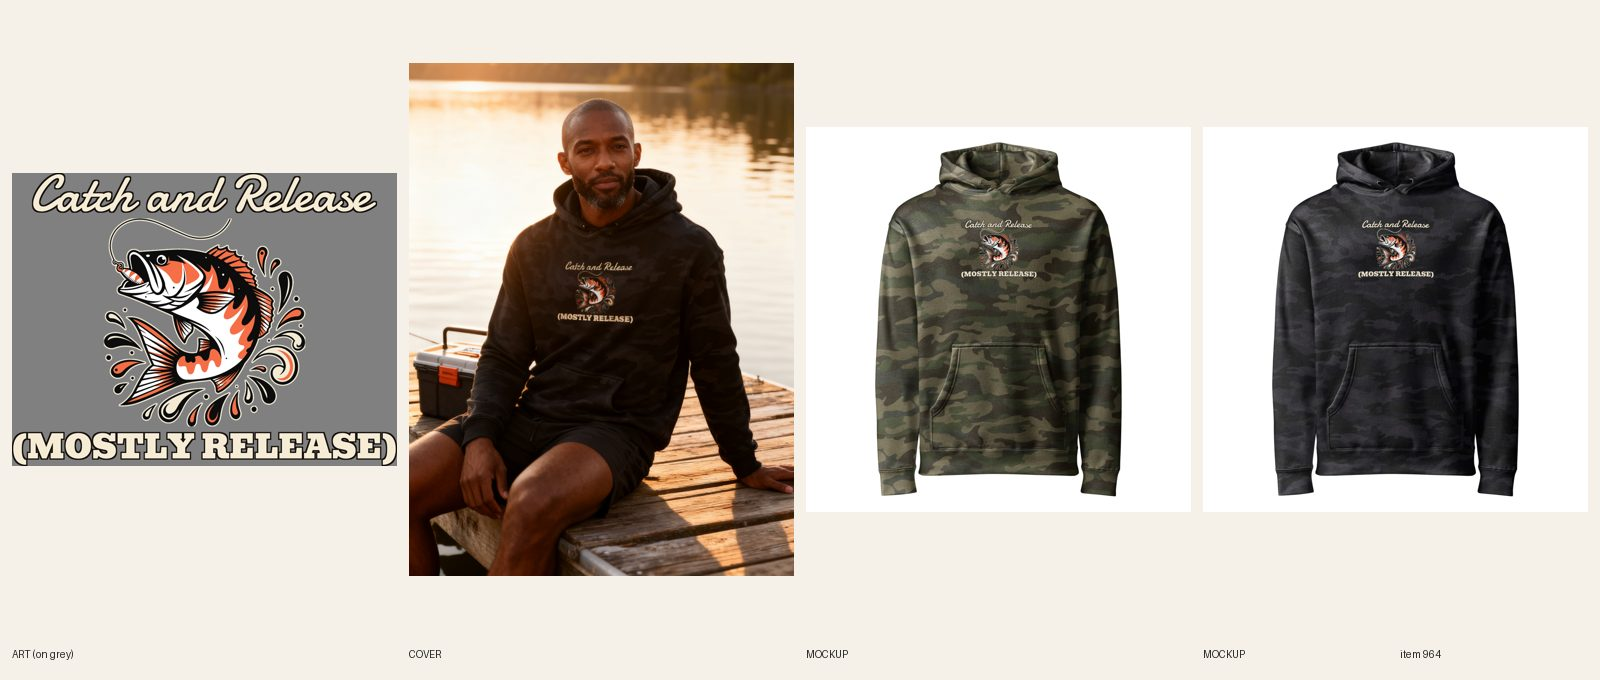
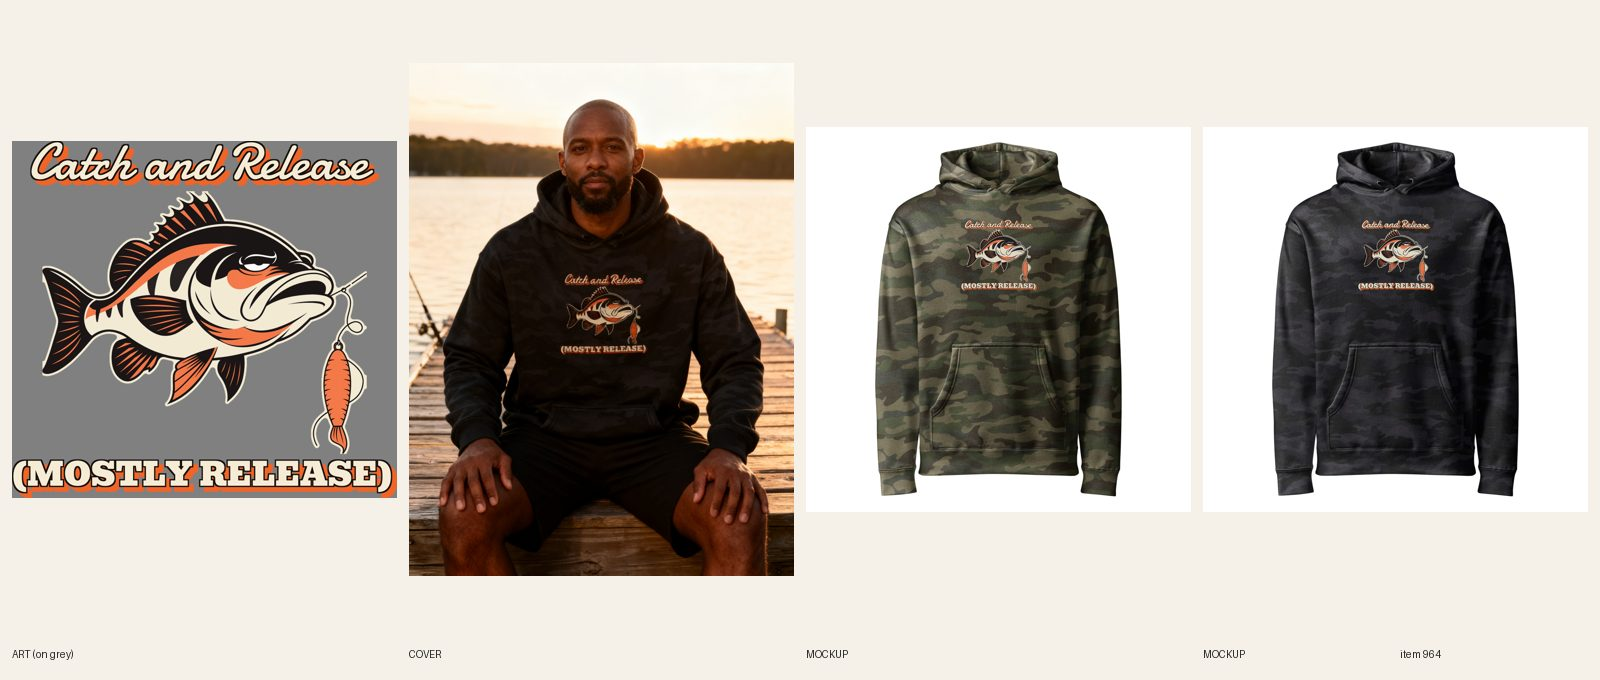
[B] review 964 camo twin REDO rebuilt

Changed region(s): [[0.0, 0.0926, 0.5, 0.8647], [0.8438, 0.3088, 0.9062, 0.4324], [0.5938, 0.3088, 0.6562, 0.4324]]

diff --git a/docs/pipeline/964-camo-twin-fishing-catch-and-release.md b/docs/pipeline/964-camo-twin-fishing-catch-and-release.md
@@ -1,4 +1,4 @@
-status: BUILDING B 2026-10-30T15:45Z
+status: REVIEW
 lane: B
 type: twin
 id: 964
@@ -28,3 +28,4 @@ push: camo
 - 2026-10-23 14:55 UTC director: RE-BRIEF (answers the builder's 2026-10-23 13:50 stand-down): this twin no longer follows the old patch standard (R11.13 superseded by docs/backlog/camo-redo.md, Sam 2026-10-22). Build it to camo-redo.md rules 1-6: style S7, placement A+ (tag placement-a), no cream box, no tall condensed sans, no default orange second line, a font no other camo item in the run uses, the picture acts out the joke; two fal lifestyle photos per the camo-redo photo section. Redo the existing 2026-10-21 Shopify draft and Printful sync in place (new art, file, position, mockups); never a second product. Take it only after the 27 camo-redo rows (REDO comes first).
 - 2026-10-30 14:10 UTC [B]: REBUILT in place per re-brief (S7 sign painter, A+ center chest, tag placement-a), product 15372843286832 (DRAFT), Printful 483725331. Art: 1 Recraft call (leaping bass with lure, black/orange/white), lettering Damion script over Bevan caps (recent lane B faces: Rye, Caveat Brush, Inter, Bowlby, Playfair; not among them). Print 2181 x 1662, FW1500 TOP400 (h 1143, fits 2100). headline 1955 / punch 2181 px = 112%, subject 1142 of 2181 = 52%, type 422 of 1662 px. 14/14 on file 1098670011 (verified, back logo 1080398177). Copy/SEO/alts/tags updated (placement-a); images: photo 1 dock at golden hour (registry 1124, Black Camo; 'Catch' slightly soft at 200%), then Forest + Black front, back. Photo for Forest/boat: 3 calls, script letters garbled ('Relense'), so slot 2 uses the clean Printful flat front per camo-redo rule 4. Sheet docs/review/964.jpg. Local audit not run (draft, no spec). fal ~$0.26.
 - 2026-10-30 14:47 UTC director: REDO (art; product stays DRAFT; line, Damion/Bevan pair, punch 112% and A+ placement pass). 1. camo-redo rule 3 (the picture acts out the joke): the bass is lunging at the lure, which is the 'catch'; nothing shows '(mostly release)'. A leaping bass with splash drops is the stock Etsy fishing sticker (R5.3.1, R13.3: generic animal next to words). Redraw with one Recraft call so the fish visibly wins: the bass swimming off smug with a snapped line and the lure trailing from its lip, or spitting the hook back toward a slack line. 2. camo-redo size check (A+): subject logged 52% of print width; the rule is main art at least 75%. Compose landscape, fish big. 3. S7 sign painter = brush script plus block letters WITH a drop shadow; Bevan has none. Add a drop shadow in an art color (orange or black) on (MOSTLY RELEASE). 4. Any new print means new lifestyle photos made from the new mockup (R6.9 'after an art redo').
+2026-10-30 17:32 UTC [B] REBUILT again after REDO: new Recraft art (smug bass swimming off, snapped line, lure trailing from lip), S7 Damion + Bevan with orange drop shadow, print 2137 x 1984, FW1500 TOP400 (h 1393), headline 1936 / punch 2137 px = 110%, subject 1800 of 2137 = 84%, type 464 of 1984 px. 14/14 on file 1098835900 (verified). Photo 1 new from the new Black mockup (registry 1124, dock); photo 2 is the Forest front mockup (no second fal photo this run, budget). Copy and SEO updated. Sheet docs/review/964.jpg. fal ~$0.65.
